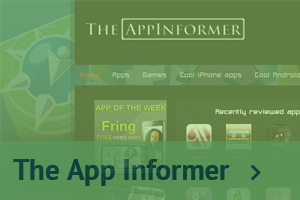
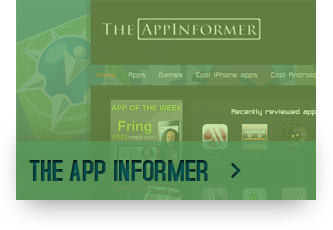
fadf

diff --git a/app/assets/stylesheets/gfi.scss b/app/assets/stylesheets/gfi.scss
@@ -22,6 +22,53 @@
 	margin-right: auto;
 }
 
+#serviceHighlight {
+	width: 960px;
+	height: 350px;
+	border-top: 1px solid #387875;
+	border-bottom: 1px solid #387875;
+	margin-top: 10px;
+	padding: 20px;
+  left: 0px;
+	right: 0;
+	margin-left: auto;
+	margin-right: auto;
+	margin-top: 290px;
+}
+
+#serviceTimeline {
+	width: 960px;
+	height: 250px;
+	background-color:#424243;
+}
+
+#researchTimeline {
+	height: 250px;
+	width: 20%;
+	float: left;
+	padding: 20px;
+}
+
+#designTimeline {
+	height: 250px;
+	width: 20%;
+	float: left;
+	padding: 20px;
+}
+
+#devTimeline {
+	height: 250px;
+	width: 20%;
+	float: left;
+	padding: 20px;
+}
+
+#socialTimeline {
+	height: 250px;
+	width: 20%;
+	float: left;
+	padding: 20px;
+}
 
 #midSpacer {
 	display:inline;
@@ -35,36 +82,79 @@
 	margin-right: auto;
 }
 
-#rightColumn {
-	display:inline;
-	float: right;
-	margin-right:20px;
-	width:620px;
-	margin-left:0;
-	margin-right:20px;
-}
-
 #leftColumn {
 	display:inline;
-	float:left;
-	margin-right:20px;
-	padding-top: 10px;
-	width:300px;
-	margin-right:0;
-}
-
-#rightContent {
-	float: right;
-	width:575px;
-	padding-top: 10px;
-	margin-right:0;
+	float:right;
+	width: 32%;
+	margin-top: 20px;
+	background-color: #333939;
+	text-align: center;
+	margin-right: 35px;
 }
 
 #leftContent {
 	background-color:#424243;
-	width:280px;
+	width: 32%;
 	padding:20px;
-	margin-bottom:30px;
-	float: left;
+	float: right;
+	display:inline;
 	overflow:hidden
 }
+
+#rightColumn {
+	display:inline;
+	float: left;
+	width: 65.6%;
+	margin-left:0;
+	border-bottom: 1px solid #387875;
+}
+
+#rightContent {
+	width: 65.6%;
+	padding-bottom:30px;
+	float: left;
+	overflow:hidden;
+	display:inline;
+}
+
+#contentHead {
+	h2 {
+		font-size: 3.5em;
+	}
+	
+	width: 60%;
+	height: 84px;
+	color: #69e191;
+}
+
+#tai {
+  $path: 'gfi/portfolio/tai2.png';
+
+  height: image-height($path);
+	width: image-width($path)/2;
+  background: image-url($path);
+	display:inline;
+	float: left;
+
+  &:hover {
+    background-position: image-width($path)/2;
+    cursor: pointer;
+  }
+}
+
+#nui {
+  $path: 'gfi/portfolio/nui2.png';
+
+  height: image-height($path);
+	width: image-width($path)/2;
+  background: image-url($path);
+	display:inline;
+	float: right;
+
+  &:hover {
+    background-position: image-width($path)/2;
+    cursor: pointer;
+  }
+}
+
+

diff --git a/app/assets/stylesheets/layout.scss b/app/assets/stylesheets/layout.scss
@@ -7,7 +7,7 @@ body
 	background: image-url('gfi/designtile2.png');
 	
 //	font-family: "PT Sans", sans-serif, "Lucida Console", Monospace, "Times New Roman";
-    font-family: 'Duru Sans', sans-serif;
+    font-family: 'Accidental Presidency', 'Duru Sans', sans-serif;
 		color: white;
 
   //Hide horizontal scroll bar
@@ -29,7 +29,7 @@ ul
 
 p, ul
 {
-  font-size: 13px;
+  font-size: 1.1em;
   font-weight: 450;
 }
 
@@ -87,6 +87,10 @@ p
 		}
 
 		#nav {
+			h2 {
+				font-size: 3em;
+			}
+			
 			@include prepend(5); //How far left of the logo is the navbar?
 			height: 200px;
 			width: 500px;
